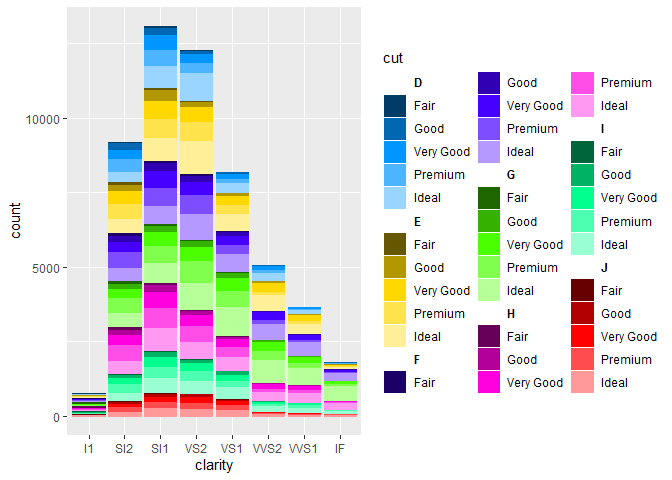
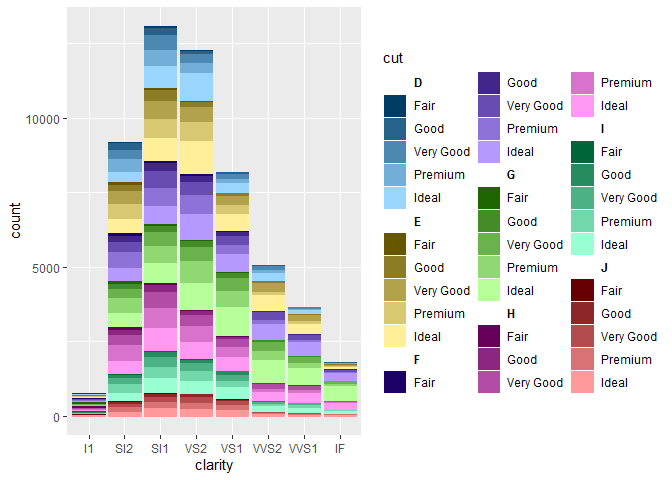
Altered the gradient function so that colours are more evenly spaced

diff --git a/README.md b/README.md
@@ -209,14 +209,14 @@ nested_palette(diamonds,
 #>    color cut       group_colour subgroup_colour group_subgroup
 #>    <ord> <ord>     <chr>        <chr>           <chr>         
 #>  1 D     Fair      #008CF0      #003C66         D_Fair        
-#>  2 D     Good      #008CF0      #0068B2         D_Good        
-#>  3 D     Very Good #008CF0      #0095FF         D_Very Good   
-#>  4 D     Premium   #008CF0      #4DB5FF         D_Premium     
+#>  2 D     Good      #008CF0      #26628C         D_Good        
+#>  3 D     Very Good #008CF0      #4C88B2         D_Very Good   
+#>  4 D     Premium   #008CF0      #72AED8         D_Premium     
 #>  5 D     Ideal     #008CF0      #99D5FF         D_Ideal       
 #>  6 E     Fair      #F0CB00      #665600         E_Fair        
-#>  7 E     Good      #F0CB00      #B29700         E_Good        
-#>  8 E     Very Good #F0CB00      #FFD800         E_Very Good   
-#>  9 E     Premium   #F0CB00      #FFE34D         E_Premium     
+#>  7 E     Good      #F0CB00      #8C7C26         E_Good        
+#>  8 E     Very Good #F0CB00      #B2A24C         E_Very Good   
+#>  9 E     Premium   #F0CB00      #D8C872         E_Premium     
 #> 10 E     Ideal     #F0CB00      #FFEF99         E_Ideal       
 #> # ... with 25 more rows
 ```
@@ -232,12 +232,12 @@ extract_palette(p)
 #>  1 D - Fair       grey50       #333333        
 #>  2 D - Good       grey50       #595959        
 #>  3 D - Very Good  grey50       #7F7F7F        
-#>  4 D - Premium    grey50       #A6A6A6        
+#>  4 D - Premium    grey50       #A5A5A5        
 #>  5 D - Ideal      grey50       #CCCCCC        
 #>  6 E - Fair       red          #660000        
-#>  7 E - Good       red          #B20000        
-#>  8 E - Very Good  red          #FF0000        
-#>  9 E - Premium    red          #FF4D4D        
+#>  7 E - Good       red          #8C2626        
+#>  8 E - Very Good  red          #B24C4C        
+#>  9 E - Premium    red          #D87272        
 #> 10 E - Ideal      red          #FF9999        
 #> # ... with 25 more rows
 ```
